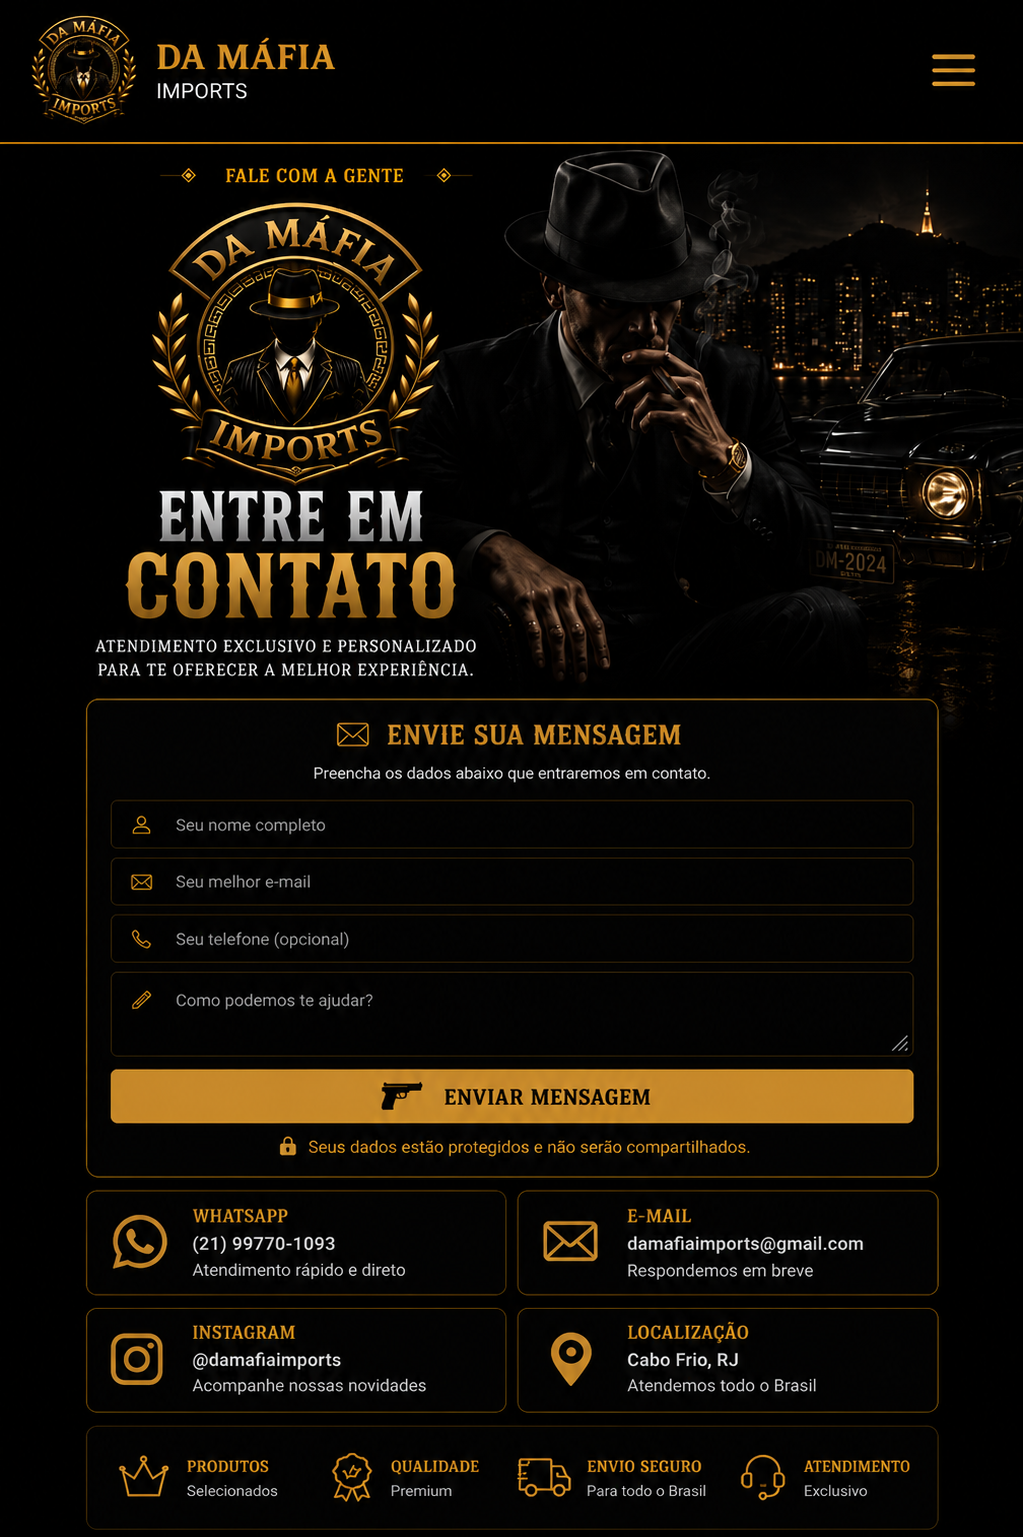
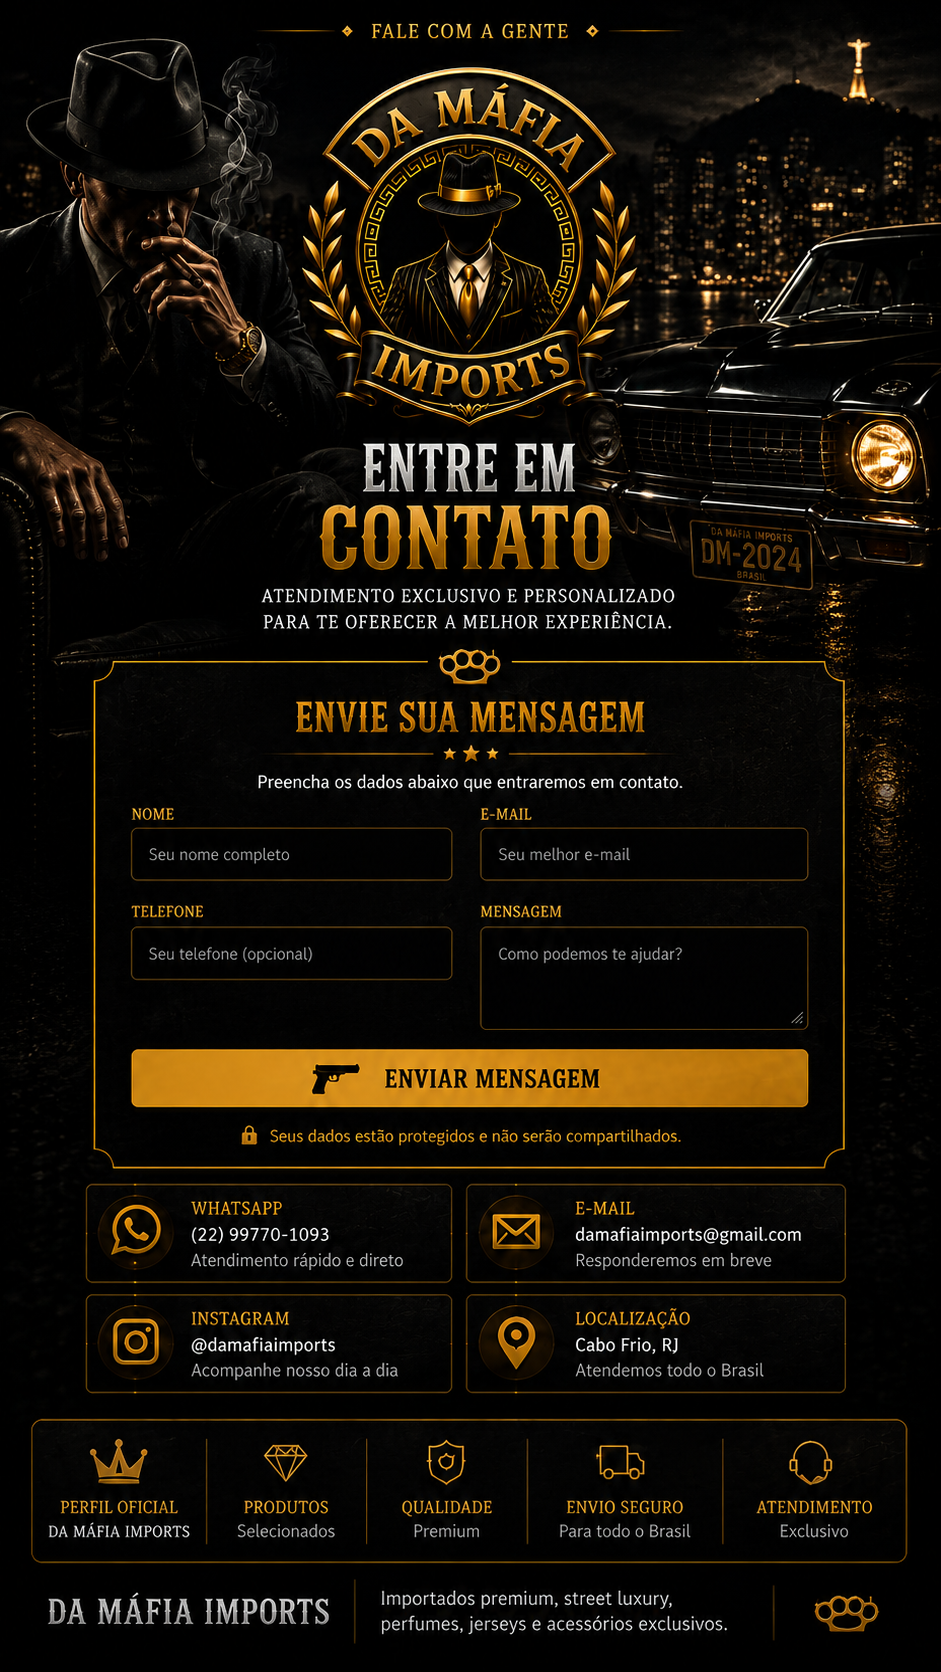
Atualização do site

Changed region(s): [[0.0, 0.0, 1.0, 0.9993], [0.9554, 0.8744, 0.9862, 0.9057], [0.0, 0.1249, 0.0308, 0.1561]]

diff --git a/src/styles.css b/src/styles.css
@@ -14080,26 +14080,33 @@ body:has(.contact-exact-page) .site-header {
     position: relative;
     width: 100%;
     max-width: 1024px;
+    height: max(100svh, calc(100vw * 1672 / 941));
     margin: 0 auto;
-    aspect-ratio: 2 / 3;
+    overflow: hidden;
     background: #000;
     line-height: normal;
   }
 
   .contact-mobile-exact-art {
     position: absolute;
-    inset: 0;
+    top: 0;
+    left: 50%;
     display: block;
-    width: 100%;
+    width: max(100%, calc(100svh * 941 / 1672));
     height: 100%;
     object-fit: fill;
+    transform: translateX(-50%);
     user-select: none;
     -webkit-user-drag: none;
   }
 
   .contact-mobile-exact-form {
     position: absolute;
-    inset: 0;
+    top: 0;
+    left: 50%;
+    width: max(100%, calc(100svh * 941 / 1672));
+    height: 100%;
+    transform: translateX(-50%);
     z-index: 2;
   }
 
@@ -14121,17 +14128,19 @@ body:has(.contact-exact-page) .site-header {
   }
 
   .contact-mobile-exact-home {
-    top: 0.9%;
-    left: 2.8%;
-    width: 35.5%;
-    height: 7.8%;
+    top: 0;
+    left: 50%;
+    width: max(100%, calc(100svh * 941 / 1672));
+    height: 5.4%;
+    transform: translateX(-50%);
   }
 
   .contact-mobile-exact-menu-wrap {
-    top: 3.1%;
-    right: 2.9%;
-    width: 9.5%;
-    height: 5.7%;
+    display: none;
+    top: 2.1%;
+    right: 3%;
+    width: 9%;
+    height: 4.3%;
     padding: 0;
   }
 
@@ -14175,9 +14184,7 @@ body:has(.contact-exact-page) .site-header {
 
   .contact-mobile-exact-field {
     position: absolute;
-    left: 10.85%;
-    width: 78.35%;
-    height: 3.18%;
+    height: 3.28%;
     box-sizing: border-box;
     border: 0;
     outline: 0;
@@ -14185,7 +14192,7 @@ body:has(.contact-exact-page) .site-header {
     color: rgba(255, 248, 233, 0.92);
     caret-color: #e1a22f;
     font-family: Inter, system-ui, -apple-system, BlinkMacSystemFont, "Segoe UI", sans-serif;
-    font-size: clamp(0.7rem, 3vw, 0.95rem);
+    font-size: clamp(0.52rem, 2.25vw, 0.92rem);
     font-weight: 500;
     line-height: 1.25;
   }
@@ -14201,54 +14208,69 @@ body:has(.contact-exact-page) .site-header {
   .contact-mobile-exact-field--name,
   .contact-mobile-exact-field--email,
   .contact-mobile-exact-field--phone {
-    padding: 0 2.2% 0 6.15%;
+    padding: 0 1.5%;
   }
 
   .contact-mobile-exact-field--name {
-    top: 52.18%;
+    top: 49.48%;
+    left: 14%;
+    width: 34.2%;
   }
 
   .contact-mobile-exact-field--email {
-    top: 55.9%;
+    top: 49.48%;
+    left: 51.1%;
+    width: 34.95%;
   }
 
   .contact-mobile-exact-field--phone {
-    top: 59.62%;
+    top: 55.45%;
+    left: 14%;
+    width: 34.2%;
   }
 
   .contact-mobile-exact-field--message {
-    top: 63.32%;
-    height: 5.45%;
-    padding: 1.18% 2.2% 0 6.15%;
+    top: 55.45%;
+    left: 51.1%;
+    width: 34.95%;
+    height: 6.08%;
+    padding: 1.08% 1.5% 0;
     resize: none;
   }
 
   .contact-mobile-exact-submit {
-    top: 69.62%;
-    left: 10.85%;
-    width: 78.35%;
-    height: 3.58%;
+    top: 62.8%;
+    left: 14%;
+    width: 72.05%;
+    height: 3.5%;
   }
 
   .contact-mobile-exact-link--whatsapp {
-    top: 77.52%;
-    left: 8.4%;
-    width: 40.95%;
-    height: 6.85%;
+    top: 70.88%;
+    left: 9.05%;
+    width: 39.25%;
+    height: 5.75%;
   }
 
   .contact-mobile-exact-link--email {
-    top: 77.52%;
-    left: 50.45%;
-    width: 41.25%;
-    height: 6.85%;
+    top: 70.88%;
+    left: 49.6%;
+    width: 40.45%;
+    height: 5.75%;
   }
 
   .contact-mobile-exact-link--instagram {
-    top: 85.15%;
-    left: 8.4%;
-    width: 40.95%;
-    height: 6.85%;
+    top: 77.34%;
+    left: 9.05%;
+    width: 39.25%;
+    height: 5.75%;
+  }
+
+  .contact-mobile-exact-link--location {
+    top: 77.34%;
+    left: 49.6%;
+    width: 40.45%;
+    height: 5.75%;
   }
 
   .contact-mobile-exact-home:focus-visible,

diff --git a/src/routes/contato.tsx b/src/routes/contato.tsx
@@ -105,7 +105,7 @@ function ContatoPage() {
         <div className="contact-mobile-exact-stage">
           <img
             className="contact-mobile-exact-art"
-            src="/assets/da-mafia/contact-mobile-exact-reference-20260605.png?v=contact-mobile-exact-20260605"
+            src="/assets/da-mafia/contact-mobile-exact-reference-20260605.png?v=contact-mobile-exact-20260606-full"
             alt="DA MAFIA IMPORTS - Entre em contato"
             draggable={false}
           />
@@ -179,6 +179,7 @@ function ContatoPage() {
           <a className="contact-mobile-exact-link contact-mobile-exact-link--whatsapp" href="https://wa.me/5521997701093" aria-label="Abrir WhatsApp" />
           <a className="contact-mobile-exact-link contact-mobile-exact-link--email" href="mailto:damafiaimports@gmail.com" aria-label="Enviar e-mail" />
           <a className="contact-mobile-exact-link contact-mobile-exact-link--instagram" href="https://www.instagram.com/damafiaimports" aria-label="Abrir Instagram" />
+          <a className="contact-mobile-exact-link contact-mobile-exact-link--location" href="https://www.google.com/maps/search/?api=1&query=Cabo%20Frio%2C%20RJ" aria-label="Ver localizacao" />
         </div>
       </section>
     </main>
